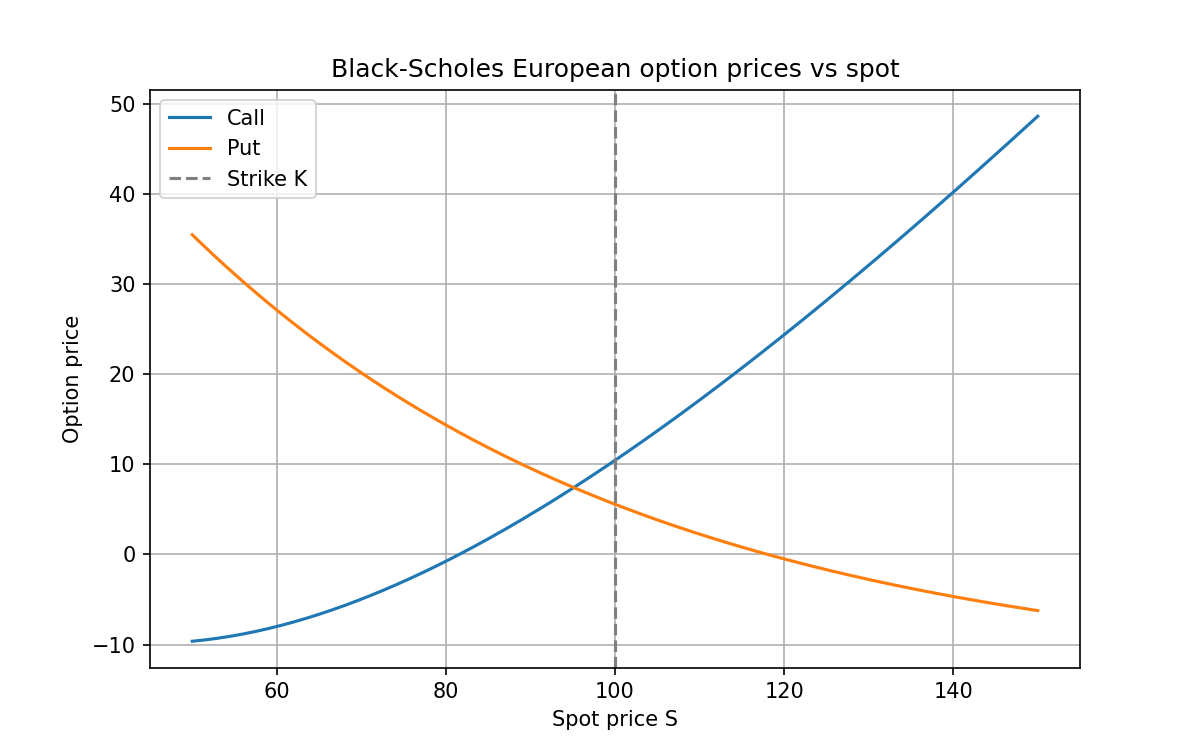
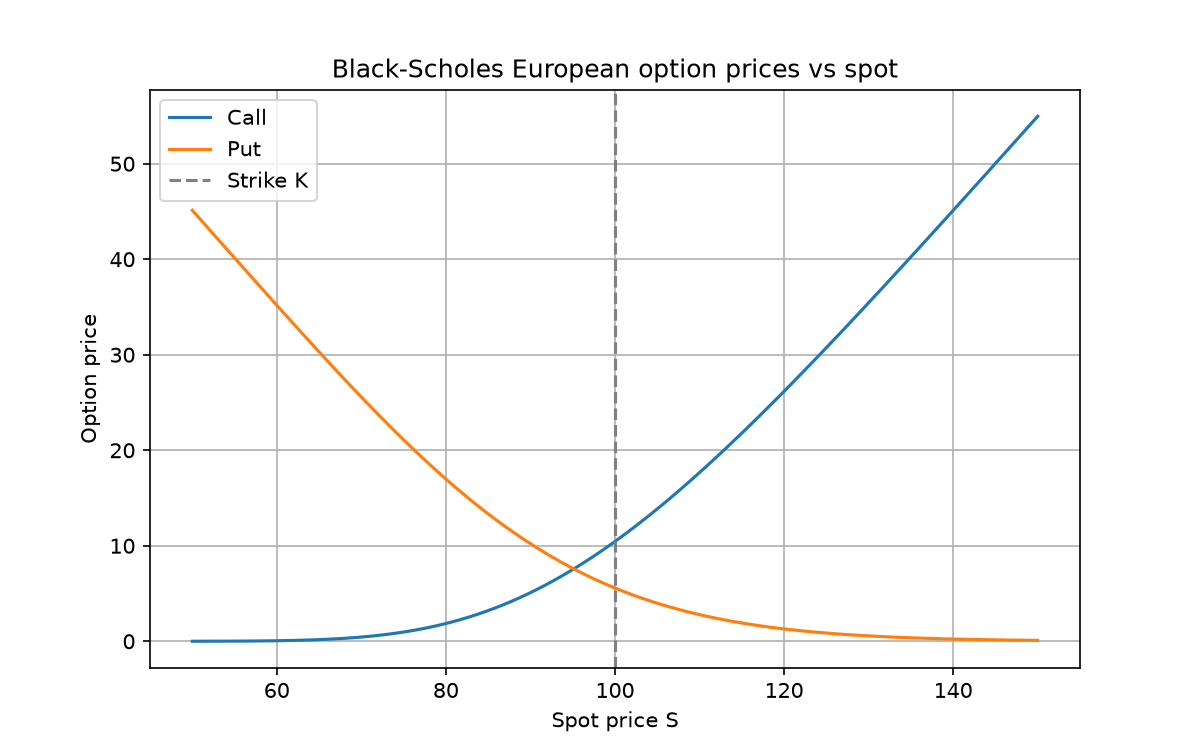
Stage 4: add Monte Carlo pricing and convergence plot
Add monte_carlo_call_price and plot_monte_carlo_convergence.
Update module docstring to cover the full scope of the file.
Fix vega docstring (sqrt(t), not t). Print closed-form and
Monte Carlo prices in __main__ so results are visible without
opening the plots.

diff --git a/black_scholes.py b/black_scholes.py
@@ -1,7 +1,9 @@
 """
 Black-Scholes option pricing.
 
-Stage 1: call price for a European option on a non-dividend-paying stock.
+Implements the closed-form European call and put prices, the
+Greeks (delta, gamma, vega, theta, rho), and a Monte Carlo
+simulation that converges to the closed-form price.
 """
 import os
 import numpy as np
@@ -80,7 +82,7 @@ def gamma(S: float, K: float, t: float, r: float, sigma: float) -> float:
 
 
 def vega(S: float, K: float, t: float, r: float, sigma: float) -> float:
-    """Vega: dV/dsigma = SN'(d1)*t"""
+    """Vega: dV/dsigma = SN'(d1)* sqrt(t) """
     d1, _ = _d1_d2(S, K, t, r, sigma)
     return S * norm.pdf(d1) * sqrt(t)
 
@@ -88,7 +90,8 @@ def vega(S: float, K: float, t: float, r: float, sigma: float) -> float:
 def theta_call(S: float, K: float, t: float, r: float, sigma: float) -> float:
     """Theta of a European call.
 
-    dC/dt = (-SN'(d1)sigma/(2sqrt(t))) - N(d2)rKe^(-rt)."""
+    dC/dt = (-SN'(d1)sigma/(2sqrt(t))) - N(d2)rKe^(-rt).
+    """
     d1, d2 = _d1_d2(S, K, t, r, sigma)
     return ((-S * norm.pdf(d1) * sigma / (2 * sqrt(t))) -
             r * K * exp(-r * t) * norm.cdf(d2))
@@ -97,7 +100,8 @@ def theta_call(S: float, K: float, t: float, r: float, sigma: float) -> float:
 def theta_put(S: float, K: float, t: float, r: float, sigma: float) -> float:
     """Theta of a European put.
 
-    dP/dt = (-SN'(d1)sigma/(2sqrt(t))) + N(-d2)rKe^(-rt)."""
+    dP/dt = (-SN'(d1)sigma/(2sqrt(t))) + N(-d2)rKe^(-rt).
+    """
     d1, d2 = _d1_d2(S, K, t, r, sigma)
     return ((-S * norm.pdf(d1) * sigma / (2 * sqrt(t))) +
             r * K * exp(-r * t) * norm.cdf(-d2))
@@ -115,10 +119,36 @@ def rho_put(S: float, K: float, t: float, r: float, sigma: float) -> float:
     return -K * t * exp(-r * t) * norm.cdf(-d2)
 
 
+def monte_carlo_call_price(
+        S: float, K: float, t: float, r: float, sigma: float, n: int = 100_000,
+        seed: int | None = None) -> tuple[float, float]:
+    """Estimate the Black-Scholes call price via Monte Carlo simulation.
+
+    simulates n terminal stock prices under the risk-neutral measure and
+    averages the discounted payoff.
+
+    Returns:
+        (price, standard_error)
+    """
+    rng = np.random.default_rng(seed)
+    Z = rng.standard_normal(n)
+
+    drift = (r - 0.5 * sigma**2) * t
+    diffusion = sigma * np.sqrt(t) * Z
+    S_T = S * np.exp(drift + diffusion)
+
+    payoffs = np.maximum(S_T - K, 0.0)
+    discounted = np.exp(-r * t) * payoffs
+
+    price = discounted.mean()
+    stderr = discounted.std(ddof=1) / np.sqrt(n)
+
+    return price, stderr
+
+
 def plot_price_vs_spot(
         K: float = 100, t: float = 1, r: float = 0.05, sigma: float = 0.2
 ) -> None:
-
     """
     Plot call and put prices against spot price S.
 
@@ -150,8 +180,8 @@ def plot_greeks(K: float = 100, t: float = 1,
     """
     Plot delta, gamma, vega, theta, rho against spot price S.
 
-    Saves the figure to output/greeks.png."""
-
+    Saves the figure to output/greeks.png.
+    """
     spots = np.linspace(50, 150, 200)
 
     deltas_call = [delta_call(S, K, t, r, sigma) for S in spots]
@@ -201,10 +231,59 @@ def plot_greeks(K: float = 100, t: float = 1,
     plt.show()
 
 
-if __name__ == "__main__":
-    # price = put_price(100, 100, 1, 0.05, 0.2)
-    # print(f"Call price: {price:.4f}")
+def plot_monte_carlo_convergence(
+        S: float = 100, K: float = 100, t: float = 1,
+        r: float = 0.05, sigma: float = 0.2,
+        n: int = 50_000, seed: int | None = 19) -> None:
+    """
+    Plot the running Monte Carlo estimate against number of paths.
 
-    K, t, r, sigma = 100, 1, 0.05, 0.2
-    # plot_price_vs_spot(K=K, t=t, r=r, sigma=sigma)
+    Saves the figure to output/monte_carlo_convergence.png.
+    """
+    rng = np.random.default_rng(seed)
+    Z = rng.standard_normal(n)
+    drift = (r - 0.5 * sigma**2) * t
+    diffusion = sigma * np.sqrt(t) * Z
+    S_T = S * np.exp(drift + diffusion)
+    discounted_payoffs = np.exp(-r * t) * np.maximum(S_T - K, 0.0)
+
+    running_mean = np.cumsum(discounted_payoffs) / np.arange(1, n + 1)
+
+    closed_form = call_price(S, K, t, r, sigma)
+
+    plt.figure(figsize=(8, 5))
+    plt.plot(
+        np.arange(1, n + 1),
+        running_mean,
+        linewidth=1,
+        label="Monte Carlo estimate",
+    )
+    plt.axhline(
+        closed_form,
+        color="red",
+        linestyle="--",
+        label=f"Closed form ({closed_form:.4f})",
+    )
+    plt.xscale("log")
+    plt.xlabel("Number of paths")
+    plt.ylabel("Estimated call price")
+    plt.title("Monte Carlo convergence to Black-Scholes price")
+    plt.legend()
+    plt.grid(True, which="both", alpha=0.3)
+
+    os.makedirs("output", exist_ok=True)
+    plt.savefig("output/monte_carlo_convergence.png", dpi=150)
+    plt.show()
+
+
+if __name__ == "__main__":
+    S, K, t, r, sigma = 100, 100, 1, 0.05, 0.2
+
+    print(f"Call price (closed form): {call_price(S, K, t, r, sigma):.4f}")
+    print(f"Put price  (closed form): {put_price(S, K, t, r, sigma):.4f}")
+    mc, se = monte_carlo_call_price(S, K, t, r, sigma, n=200_000, seed=19)
+    print(f"Call price (Monte Carlo): {mc:.4f} +/- {se:.4f}")
+
+    plot_price_vs_spot(K=K, t=t, r=r, sigma=sigma)
     plot_greeks(K=K, t=t, r=r, sigma=sigma)
+    plot_monte_carlo_convergence(S=S, K=K, t=t, r=r, sigma=sigma)
